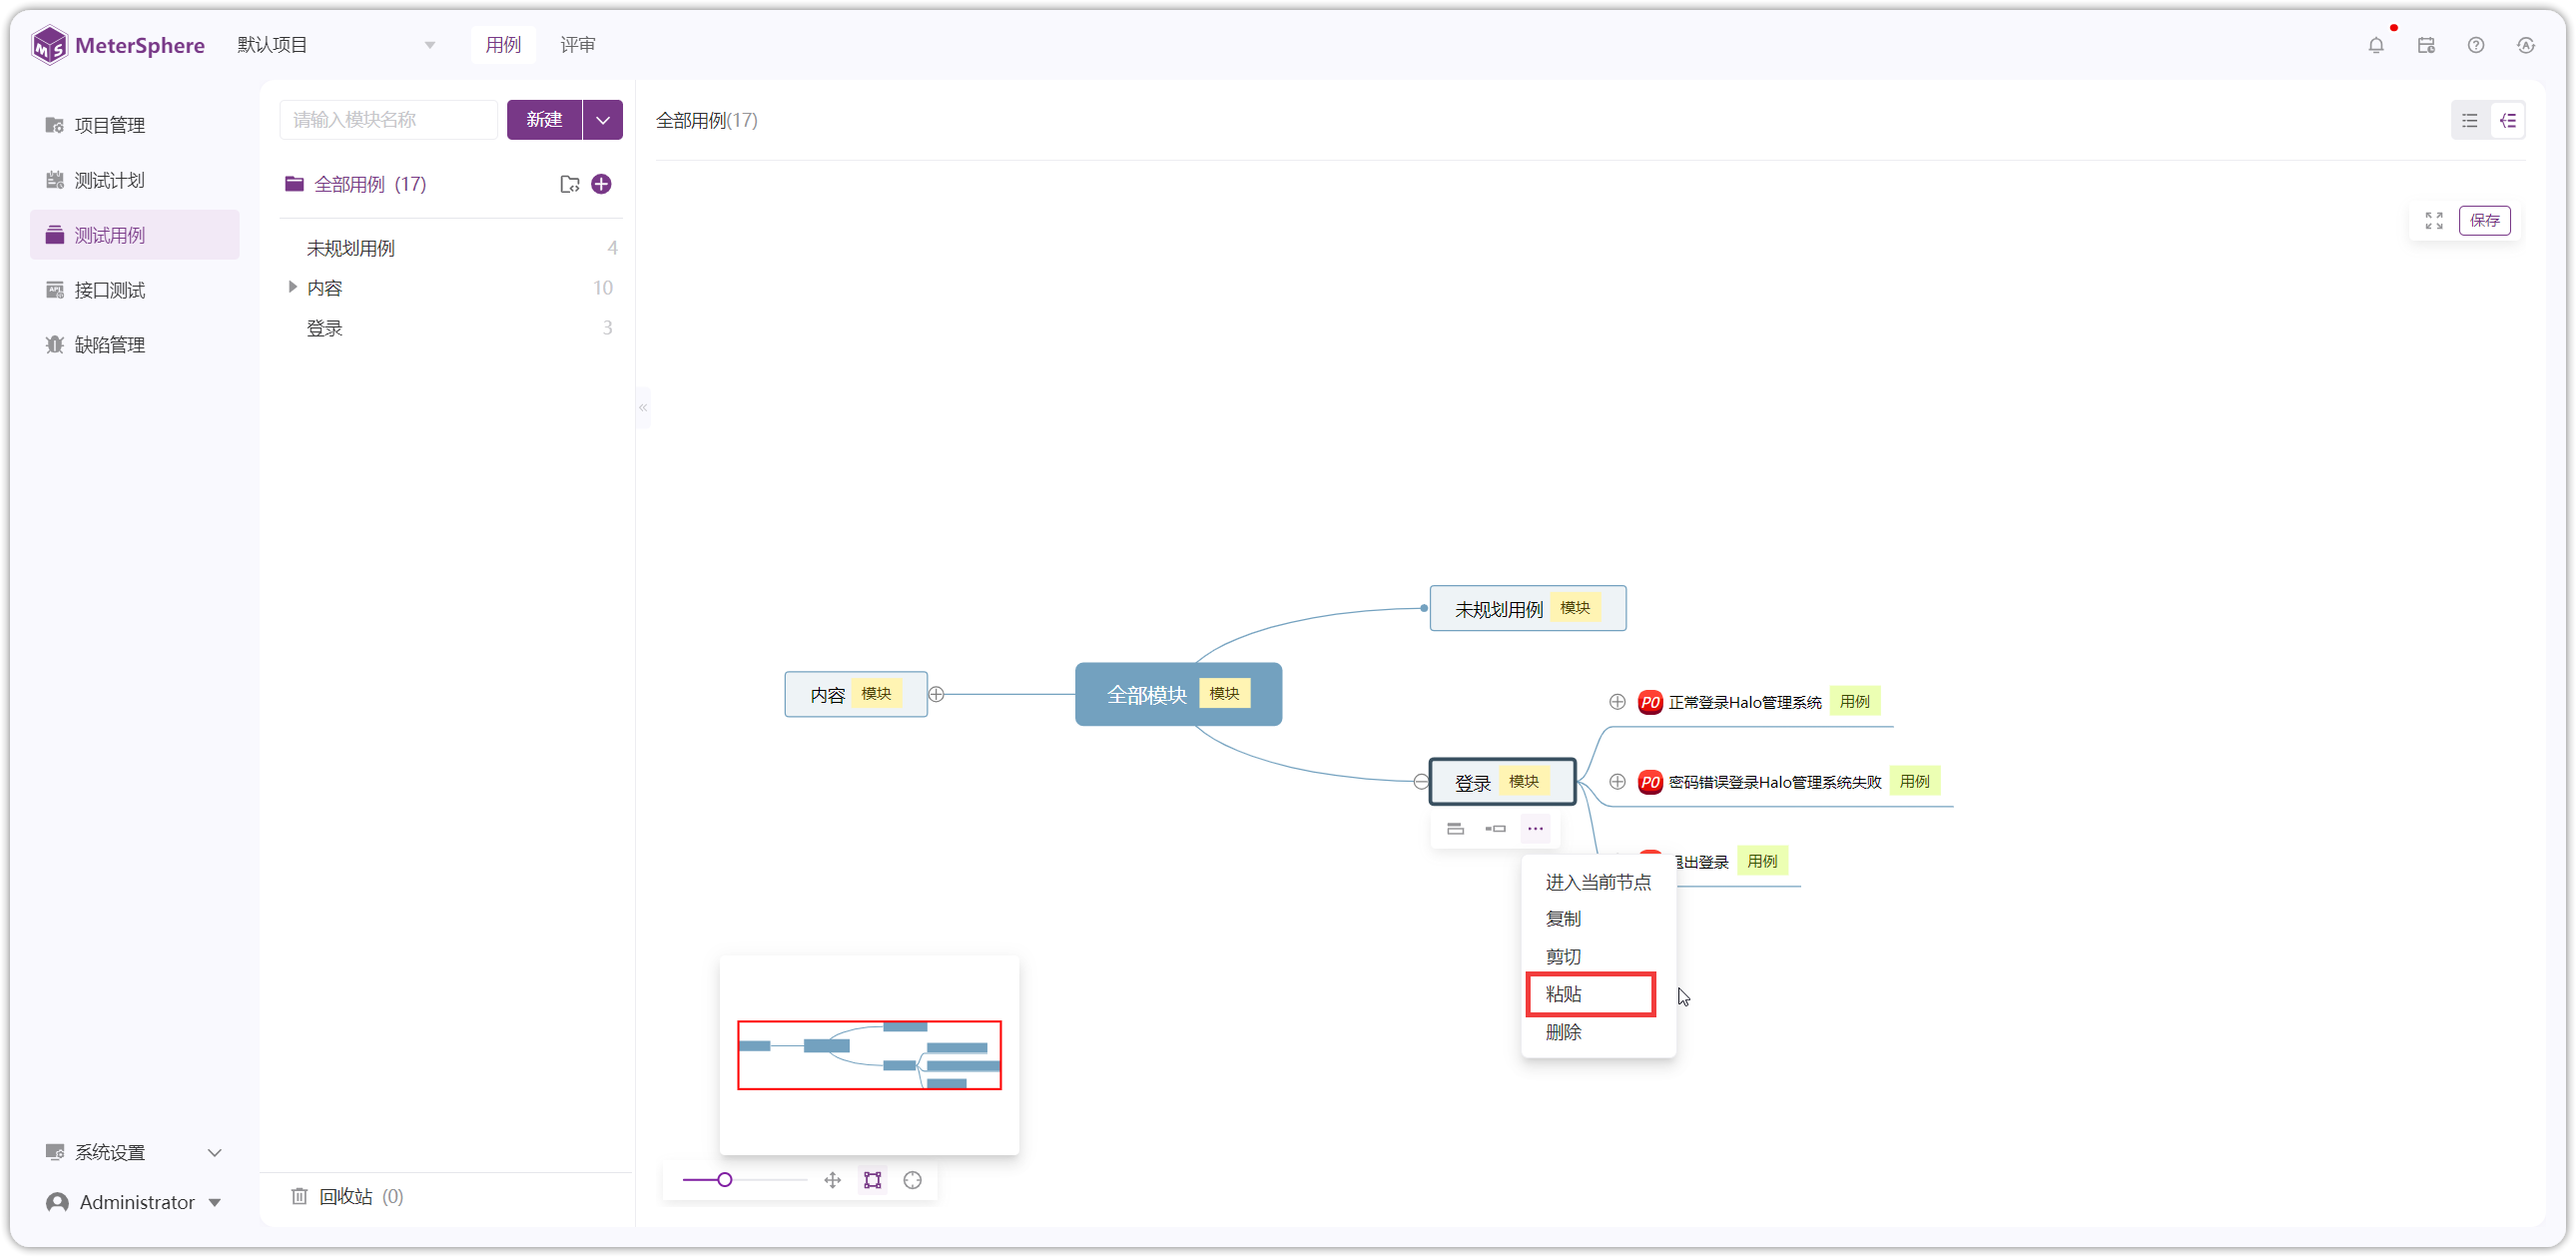
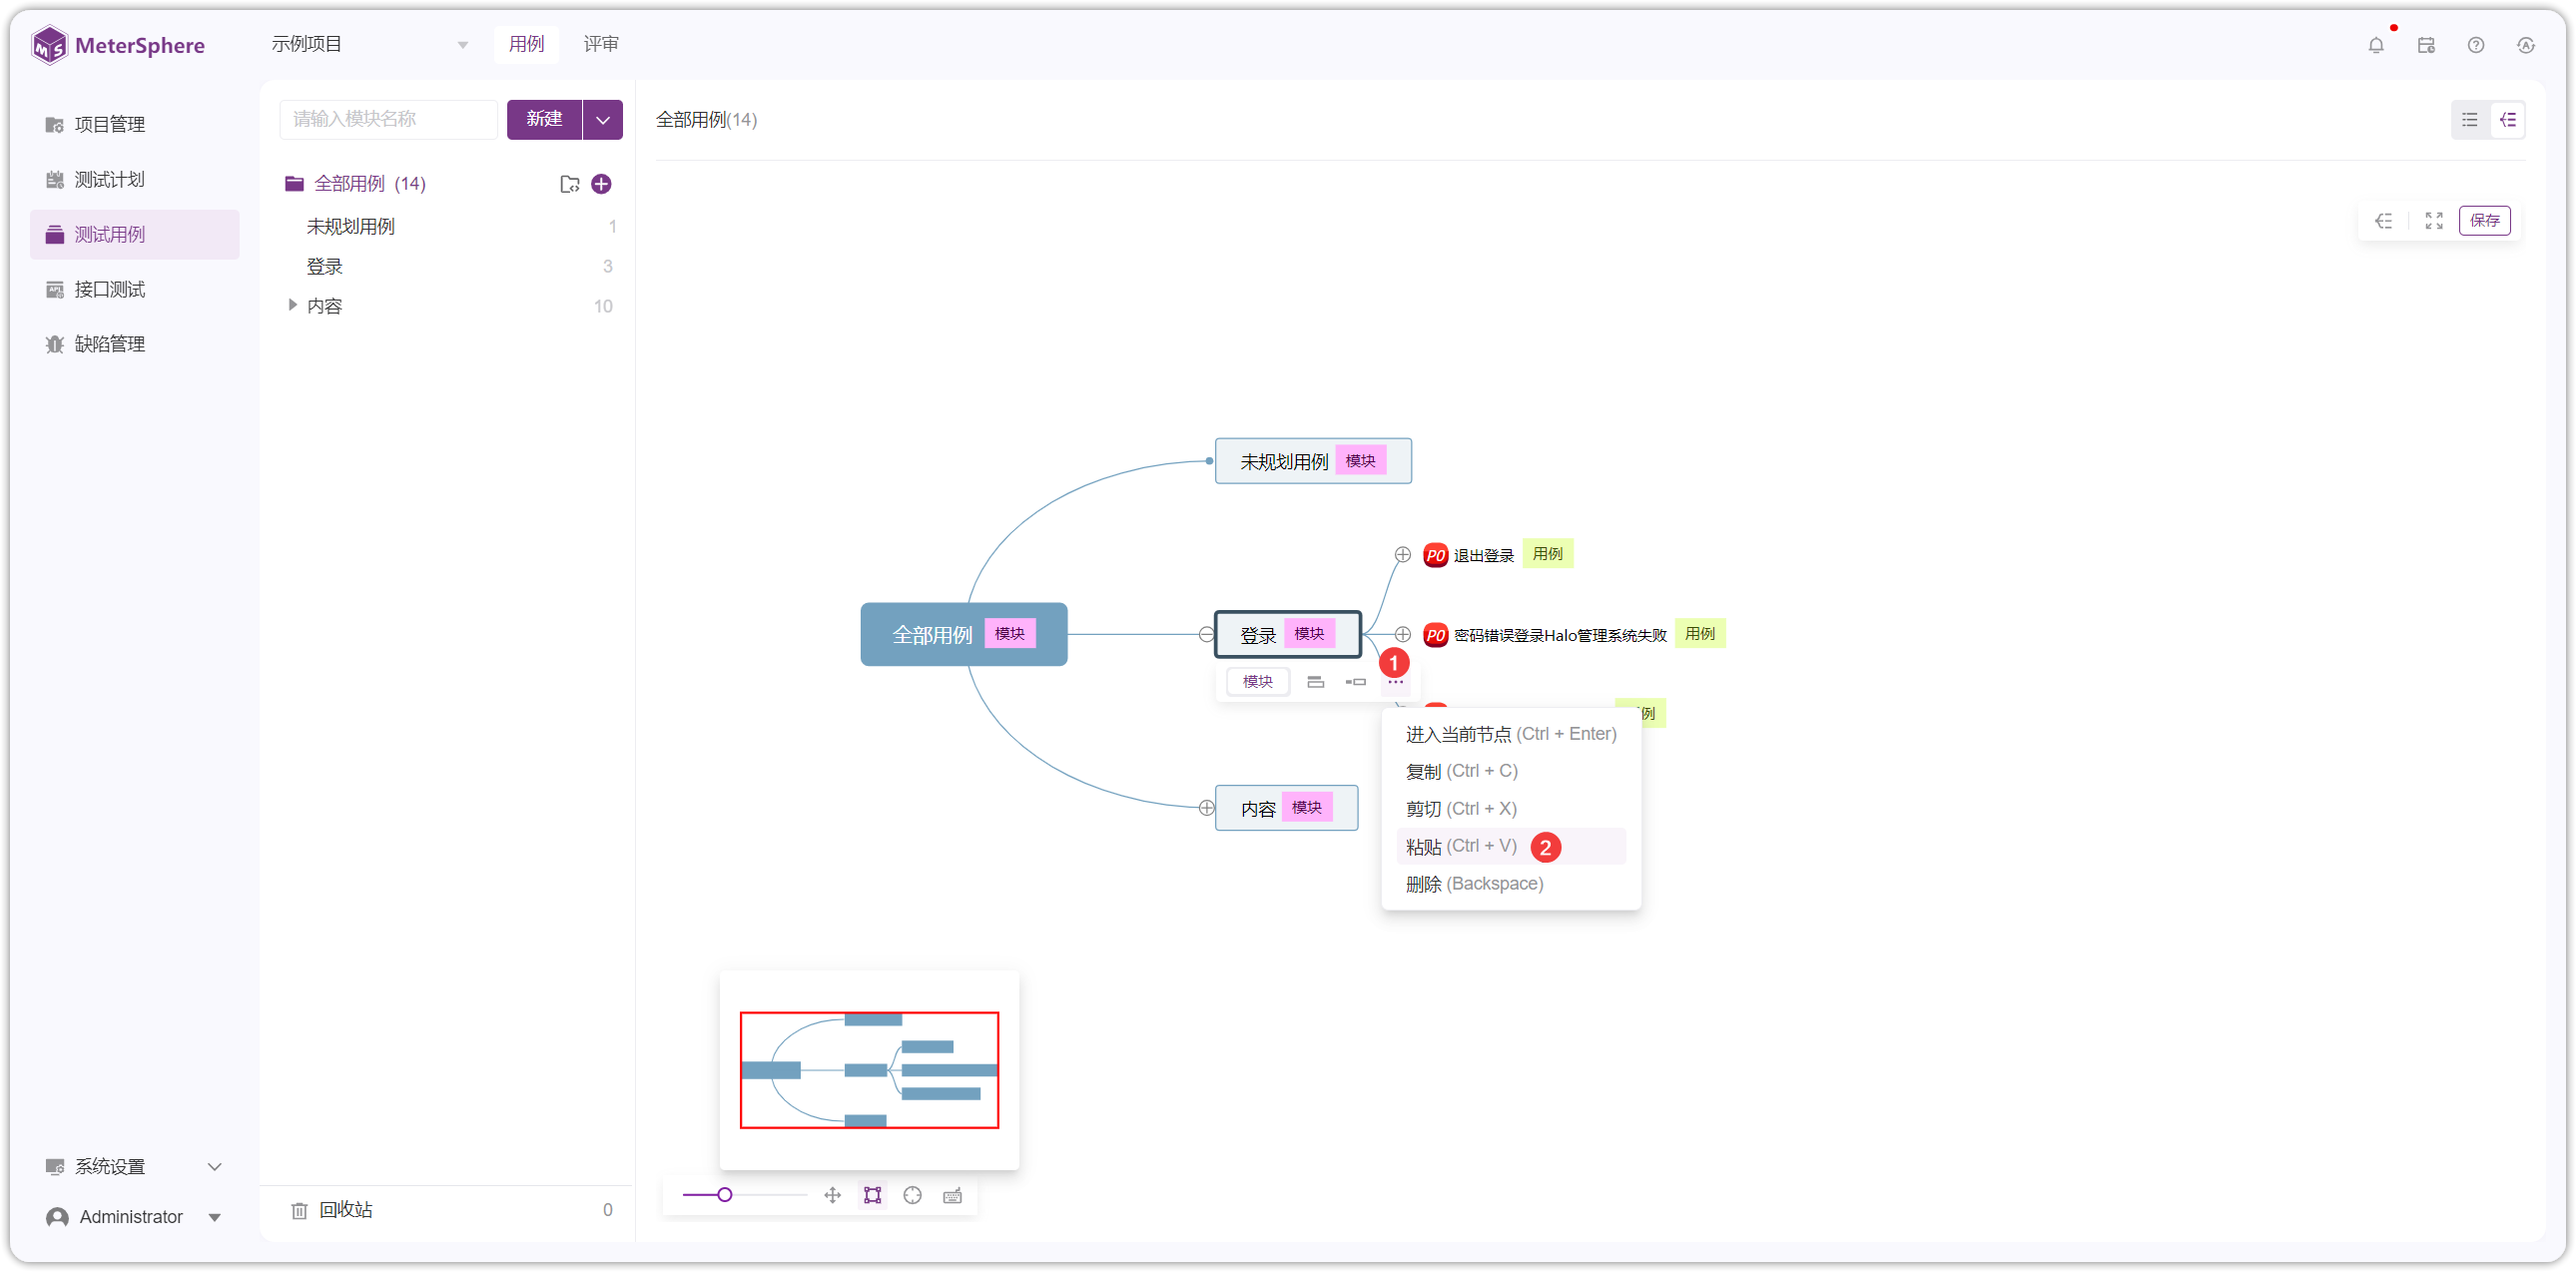
docs: 新增"case同步更新、功能用例脑图快捷键"内容

diff --git a/docs/user_manual/api_test/api_definition.md b/docs/user_manual/api_test/api_definition.md
@@ -103,14 +103,31 @@
     点击【ID】查看用例详细信息。
 ![!详情](../../img/api_test/definition/用例详情1.png){ width="900px" }	
 
-![!详情](../../img/api_test/definition/用例详情2.png){ width="900px" }	
+![!详情](../../img/api_test/definition/用例详情2.png){ width="900px" }
 
-### 6.2 引用关系
+### 6.2 同步更新
+!!! ms-abstract ""
+    API 的请求头、请求体、Query、REST 等内容发生变更，修改后点击【保存】
+![!引用关系](../../img/api_test/definition/api更新.png){ width="900px" }
+
+!!! ms-abstract ""
+    切到【用例】页面，该 case 右侧会有同步变更提示
+![!引用关系](../../img/api_test/definition/case提示.png){ width="900px" }
+
+!!! ms-abstract ""
+    进入【接口与用例差异对比】页面看到具体变更内容，点击【同步】后，跳转到【用例更新】页面，点击【更新】即可同步更新成功。
+![!引用关系](../../img/api_test/definition/case变更内容页面.png){ width="900px" }
+
+![!引用关系](../../img/api_test/definition/case用例进行更新.png){ width="900px" }
+
+![!引用关系](../../img/api_test/definition/case更新成功.png){ width="900px" }
+
+### 6.3 引用关系
 !!! ms-abstract "" 
     查看引用该用例的场景。
 ![!引用关系](../../img/api_test/definition/用例引用关系.png){ width="900px" }
 
-### 6.3 执行历史
+### 6.4 执行历史
 !!! ms-abstract "" 
     查看该用例的执行历史，在执行历史列表操作列点击【执行结果】查看执行结果详情。
 ![!执行历史](../../img/api_test/definition/用例执行历史1.png){ width="900px" }
@@ -125,7 +142,7 @@
     选择过滤条件快捷搜索执行历史报告。
 ![!执行历史](../../img/api_test/definition/用例执行历史4.png){ width="900px" }
 
-### 6.4 变更历史
+### 6.5 变更历史
 !!! ms-abstract "" 
     查看该用例的变更历史。
 ![!变更历史](../../img/api_test/definition/用例变更历史.png){ width="900px" }

diff --git a/docs/user_manual/test_case/test_case.md b/docs/user_manual/test_case/test_case.md
@@ -68,7 +68,7 @@
 ### 3.1 新建用例
 !!! ms-abstract ""
     如下图点击按钮，即可切到脑图模式展示用例。
-![!测试用例](../../img/track/切到脑图模式.png){ width="900px" }
+![!测试用例](../../img/track/功能用例切到脑图模式.png){ width="900px" }
 
 ![!测试用例](../../img/track/脑图模式展示用例.png){ width="900px" }
 
@@ -103,6 +103,10 @@
 ![!测试用例](../../img/track/脑图模式切到列表模式.png){ width="900px" }
 
 ### 3.2 模块更多操作
+!!! ms-abstract "注意"
+    如下图，脑图支持快捷键操作。
+![!测试用例](../../img/track/快捷键操作.png){ width="900px" }
+
 !!! ms-abstract ""
     【模块】可以进行添加同级模块，添加子级模块、用例、文本，进入当前节点、复制、剪切、删除等操作
 ![!测试用例](../../img/track/脑图里的模块更多操作.png){ width="900px" }
